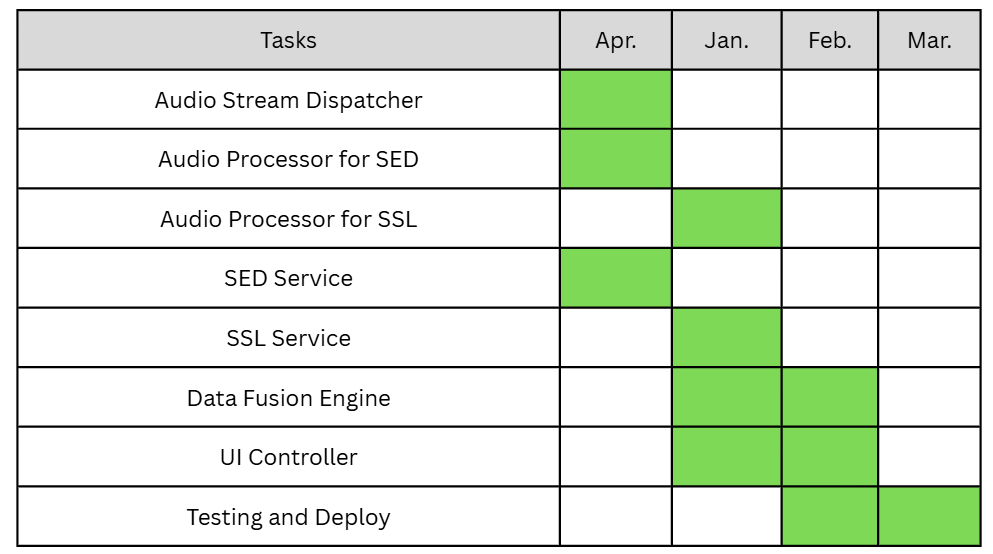
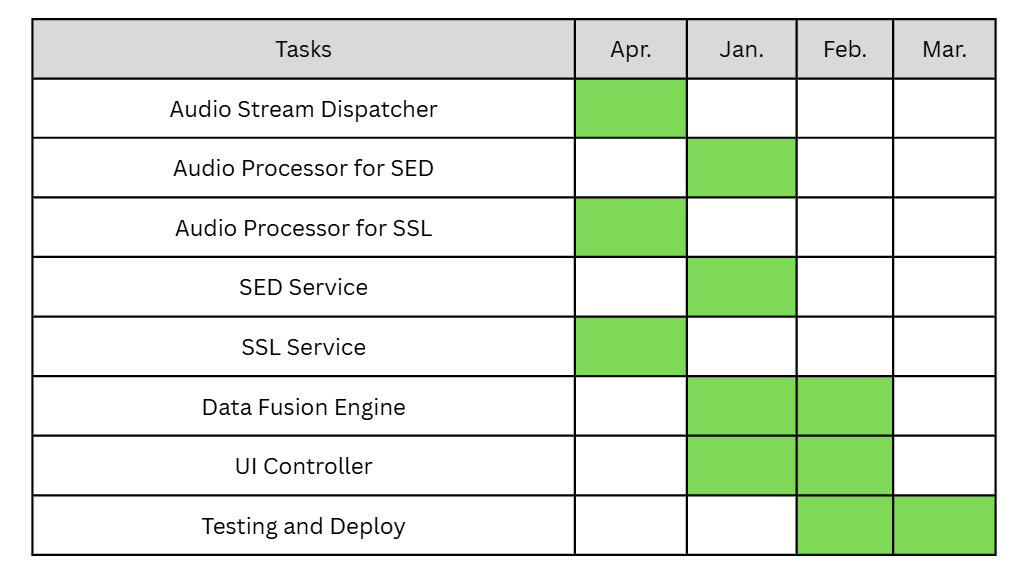
Edit the timeline and some information about classification of sound distance

Changed region(s): [[0.0, 0.0, 0.999, 1.0], [0.1561, 0.2762, 0.4371, 0.3069]]

diff --git a/body/softwaredevelopment.tex b/body/softwaredevelopment.tex
@@ -28,16 +28,20 @@
 
 The development of Sonar Retina follows a modular, priority-based timeline to ensure high precision and low latency in critical AI components.
 
-Phase 1: SED Development (April 2026): The initial phase focuses on the Sound Event Detection (SED) infrastructure. 
-This includes the implementation of the \textit{Audio Stream Dispatcher}, the \textit{Audio Processor} optimized for spectrogram extraction, and the core \textit{SED Service}. 
-By completing this section first, the project allows for an extended period of model fine-tuning and latency optimization throughout the remainder of 2026.
+\textbf{Phase 1: SSL and Initial Mobile Interface Development (April 2026):}  
+The first phase focuses on the development of the Sound Source Localization (SSL) infrastructure. 
+This includes implementing the \textit{Audio Processor} for phase-difference analysis and the core \textit{SSL Service}. 
+In parallel, the initial version of the mobile interface will be developed to support basic visualization and interaction with localization outputs.
 
-Phase 2: SSL and Integration (January 2027): Following the stabilization of the SED service, development shifts to the Sound Source Localization (SSL) components. 
-This involves implementing the \textit{Audio Processor} for phase-difference analysis and the \textit{SSL Service}. 
-Concurrently, the \textit{Data Fusion Engine} and \textit{UI Controller} will begin development to manage the synchronization of spatial and semantic data.
+\textbf{Phase 2: SED, Data Fusion, and Mobile Expansion (January 2027):}  
+The second phase focuses on the Sound Event Detection (SED) components. 
+This includes implementing the \textit{Audio Stream Dispatcher}, the \textit{Audio Processor} optimized for spectrogram extraction, and the core \textit{SED Service}. 
+At the same time, development of the \textit{Data Fusion Engine} will begin to synchronize semantic and spatial information from both AI services. 
+Further improvements and feature expansion of the mobile interface will also be carried out during this phase.
 
-Phase 3: Final Integration and Deployment (February and March 2027): The final development sprint in February 2027 focuses on refining the \textit{UI Controller} and \textit{Data Fusion Engine} to ensure seamless visualization of results on the Radar UI. 
-The project concludes in March 2027 with final system deployment and comprehensive validation.
+\textbf{Phase 3: Final Integration and Deployment (February and March 2027):}  
+The final phase focuses on refining the \textit{UI Controller} and completing the \textit{Data Fusion Engine} to ensure seamless visualization and synchronization of results within the Radar UI. 
+The project concludes in March 2027 with full system integration, deployment, and comprehensive validation.
 % \section{Progress Tracking Report}
 % \label{section:progress-tracking-report}
 % <TIP: Show that you have been working on this project overtime.

diff --git a/body/softwarearchitecture.tex b/body/softwarearchitecture.tex
@@ -71,6 +71,6 @@ This mapping is calibrated using benchmarks from the DCASE dataset to ensure con
 To measure the success of the AI components, we use the following metrics:
 \begin{itemize}
     \item \textbf{Mean Average Precision (mAP):} To evaluate the classification accuracy of the SED service across filtered classes. We define the success criteria to be at least 0.75 to balance the false positive result.
-    \item \textbf{Categorical Distance Accuracy:} Since the \textbf{SSL Service} maps proximity into five discrete zones (\textit{Very Far, Far, Medium, Close, Very Close}), we evaluate performance using a \textbf{Confusion Matrix}. The goal is to minimize "Critical Errors," defined as the system misidentifying a "Very Close" sound as "Very Far," which could pose a safety risk to the user. Therefore, we define that it can occur less than 5%.
+    \item \textbf{Categorical Distance Accuracy:} Since the \textbf{SSL Service} maps proximity into five discrete zones (\textit{Very Far, Far, Medium, Close, Very Close}), we evaluate performance using a \textbf{Confusion Matrix}. The goal is to minimize "Critical Errors," defined as the system misidentifying a "Near" sound as "Far" which could pose a safety risk to the user. Therefore, we define that it can occur less than 10%.
     \item \textbf{System Latency:} To maintain "social synchronicity," the total time from microphone input to UI update must be minimal. We set a target threshold of $<500$ms for the 90th percentile (P90) of latency. Measuring the 90\% quantile ensures that the user experience remains smooth and predictable, even during peak computational loads on the mobile hardware.
 \end{itemize}

diff --git a/body/introduction.tex b/body/introduction.tex
@@ -121,7 +121,7 @@ and adaptable to the needs of users who require alternative methods for perceivi
     \item Environmental Sound: Any sound occurring in the surrounding environment, such as speech, vehicles, alarms, or background noise.
     \item Sound Classification: The process of identifying and categorizing detected audio into predefined types (e.g., speech, traffic, alarm).
     \item Sound Direction: The cardinal and intermediate directions from which a sound originates with respect to the user (e.g., east, north, east-west).
-    \item Distance Level: A qualitative indication of how close or far a sound source is from the user (e.g., near, far, very far).
+    \item Distance Level: A qualitative indication of how close or far a sound source is from the user (e.g., near, far, medium).
     \item Cardinal Directions: The four primary compass points — North (N), South (S), East (E), and West (W).
     \item Intermediate Directions: The four directions located between the cardinal directions — Northeast (NE), Southeast (SE), Southwest (SW), and Northwest (NW).
     \item Sound Visualization: The representation of audio information in a visual format, such as icons, markers, or spatial elements.

diff --git a/body/requirementanalysis.tex b/body/requirementanalysis.tex
@@ -95,7 +95,7 @@ The system analyzes incoming audio and estimates the direction of a sound source
 
 \item \textbf{View Estimated Sound Distance (Casual)}
 
-The system analyzes incoming audio and estimates the distance of a sound source using distance levels such as near, far, or very far. The estimated distance is displayed using spatial positioning on the interface.
+The system analyzes incoming audio and estimates the distance of a sound source using distance levels such as near, far, or medium. The estimated distance is displayed using spatial positioning on the interface.
 
 \item \textbf{Explore Sound Map (Brief)}
 
